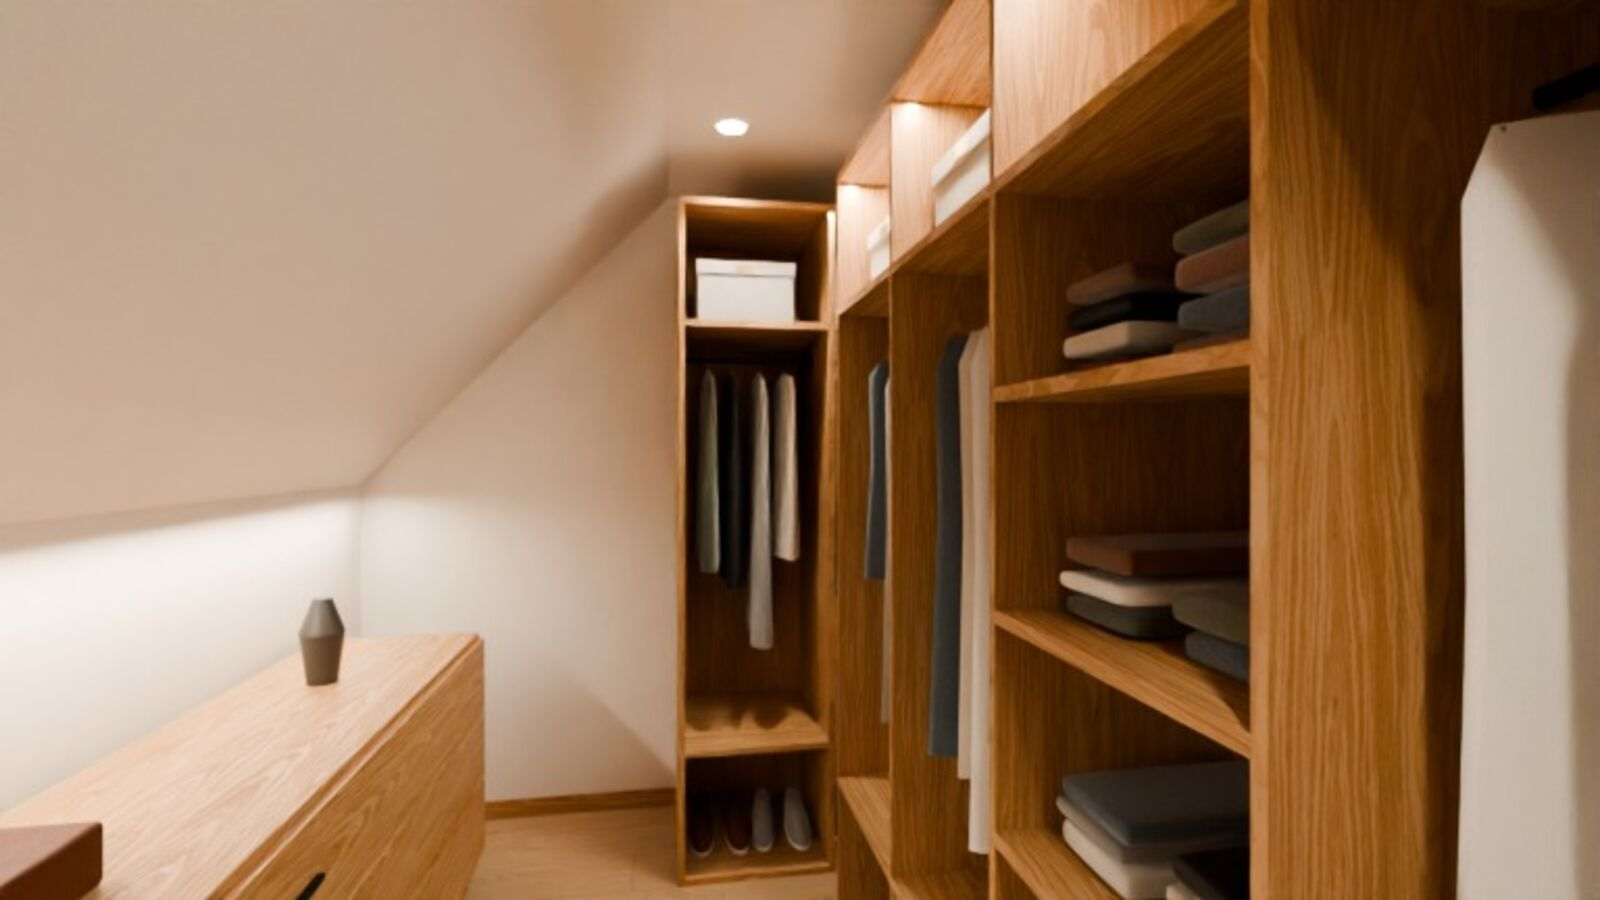
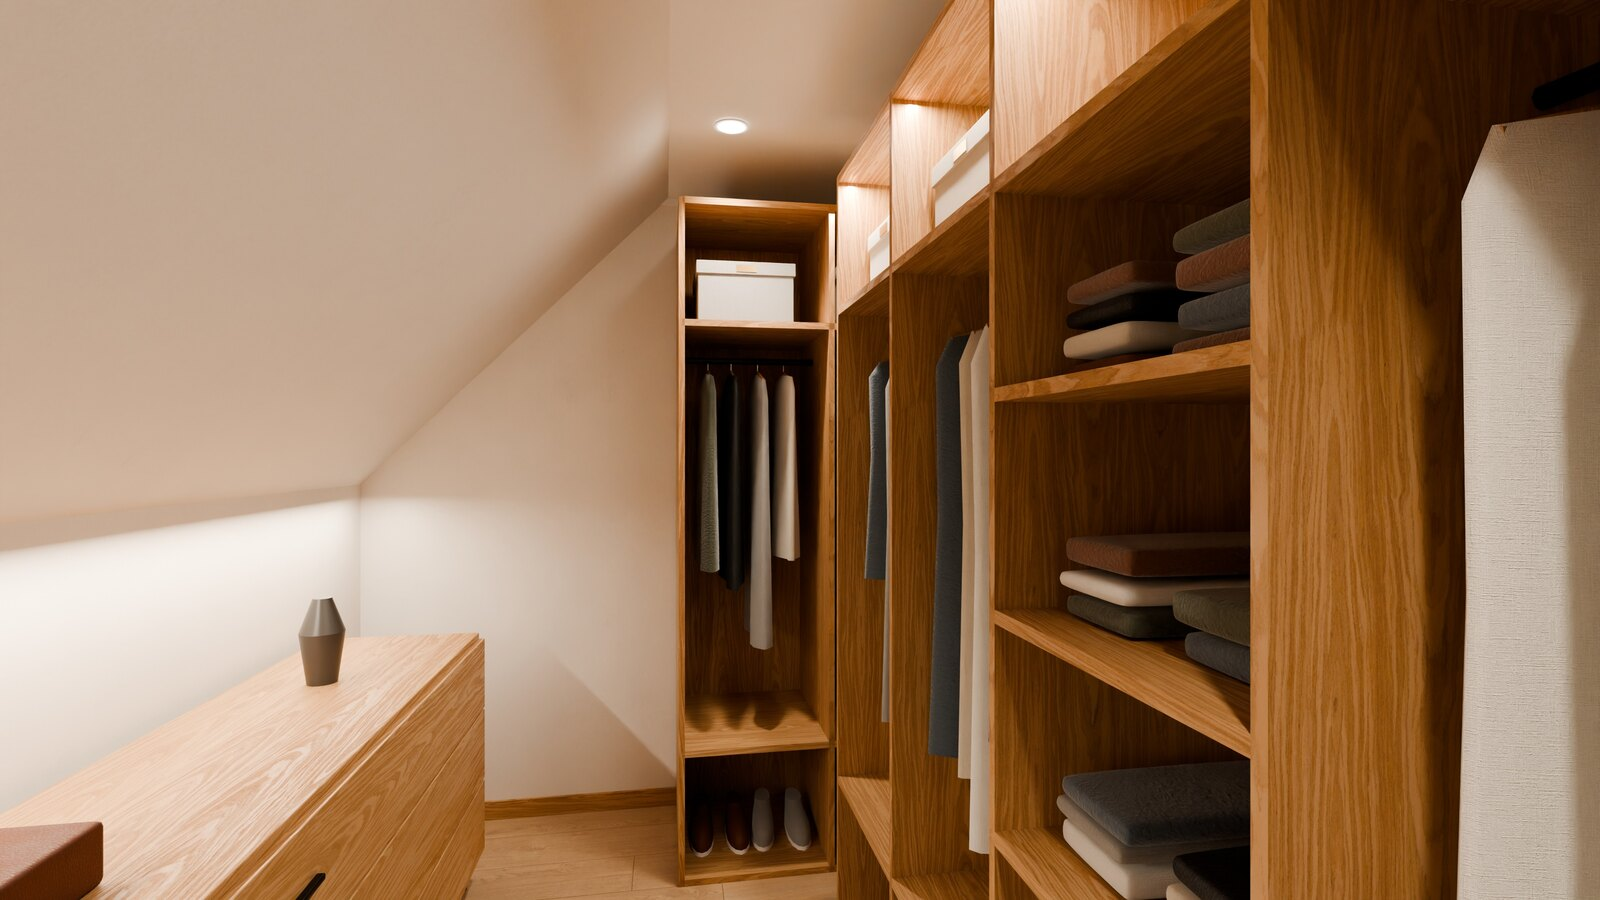
Boligannonse: 13 av 25 bilder i 4K

diff --git a/annonse/index.html b/annonse/index.html
@@ -103,7 +103,7 @@ img { max-width: 100%; }
 
 <div class="ark">
   <header class="topp">
-    <div class="merke"><strong>3D-visualisering av planlagt ombygging</strong><span>11 av 25 bilder er ferdige i 4K, resten er forhåndsvisninger</span></div>
+    <div class="merke"><strong>3D-visualisering av planlagt ombygging</strong><span>13 av 25 bilder er ferdige i 4K, resten er forhåndsvisninger</span></div>
     <h1>Enebolig med golfanneks og oppvarmet garasje</h1>
     <figure class="bilde hero"><button type="button" class="apne" data-i="0" aria-label="Åpne bildet: Fasaden mot nord med overbygd inngang"><img src="img/01-fasade.jpg" width="1600" height="900" alt="Fasaden mot nord med overbygd inngang"></button><figcaption>Fasaden mot nord med overbygd inngang</figcaption></figure>
     <p class="ingress">Et hus over tre plan med stue og kjøkken mot hagen, hovedsoverom med eget bad, tre barnerom og loft. I hagen står et anneks med golfsimulator. Trykk på et bilde for å se det i full oppløsning. På mobil fyller bildet hele skjermen når du snur den, og du blar ved å sveipe.</p>
@@ -113,7 +113,7 @@ img { max-width: 100%; }
 
 <section id="ute" class="del"><div class="delhode"><h2>Huset</h2><p>Brun stående kledning, sort ståltak og eik rundt alle åpninger. Overbygd inngang mot nord, dobbel garasje ved siden av.</p></div><div class="galleri"><figure class="bilde stor"><button type="button" class="apne" data-i="1" aria-label="Åpne bildet: Huset, garasjen og annekset sett fra nord"><img src="img/02-oversikt.jpg" width="1600" height="900" alt="Huset, garasjen og annekset sett fra nord" loading="lazy"></button><figcaption>Huset, garasjen og annekset sett fra nord</figcaption></figure></div></section>
 <section id="forste" class="del"><div class="delhode"><h2>Første etasje</h2><p>Stue, TV-stue, spisestue og kjøkken ligger på rekke mot hagen i sør. Tilbygget med kjøkken og spisestue ligger litt lavere enn stua og har 2,9 meter under taket.</p></div><div class="galleri"><figure class="bilde stor"><button type="button" class="apne" data-i="2" aria-label="Åpne bildet: Stua med karnapp mot hagen"><img src="img/04-stue.jpg" width="1600" height="900" alt="Stua med karnapp mot hagen" loading="lazy"></button><figcaption>Stua med karnapp mot hagen</figcaption></figure><figure class="bilde"><button type="button" class="apne" data-i="3" aria-label="Åpne bildet: Sofagruppa, med TV-stua bak glassveggen til venstre"><img src="img/05-stue-sofa.jpg" width="1600" height="900" alt="Sofagruppa, med TV-stua bak glassveggen til venstre" loading="lazy"></button><figcaption>Sofagruppa, med TV-stua bak glassveggen til venstre</figcaption></figure><figure class="bilde"><button type="button" class="apne" data-i="4" aria-label="Åpne bildet: Spisestue med rundt bord til åtte og skyvedører ut til terrassen"><img src="img/07-spisestue.jpg" width="1600" height="900" alt="Spisestue med rundt bord til åtte og skyvedører ut til terrassen" loading="lazy"></button><figcaption>Spisestue med rundt bord til åtte og skyvedører ut til terrassen</figcaption></figure><figure class="bilde"><button type="button" class="apne" data-i="5" aria-label="Åpne bildet: Kjøkken med mørk brune fronter og øy i Dekton"><img src="img/08-kjokken.jpg" width="1600" height="900" alt="Kjøkken med mørk brune fronter og øy i Dekton" loading="lazy"></button><figcaption>Kjøkken med mørk brune fronter og øy i Dekton</figcaption></figure><figure class="bilde"><button type="button" class="apne" data-i="6" aria-label="Åpne bildet: Kjøkkenøya har usynlig induksjon under steinplata"><img src="img/09-kjokken-oy.jpg" width="1600" height="900" alt="Kjøkkenøya har usynlig induksjon under steinplata" loading="lazy"></button><figcaption>Kjøkkenøya har usynlig induksjon under steinplata</figcaption></figure><figure class="bilde"><button type="button" class="apne" data-i="7" aria-label="Åpne bildet: TV-stua kan stenges av med glassfoldevegg"><img src="img/06-tvstue.jpg" width="1600" height="900" alt="TV-stua kan stenges av med glassfoldevegg" loading="lazy"></button><figcaption>TV-stua kan stenges av med glassfoldevegg</figcaption></figure><figure class="bilde"><button type="button" class="apne" data-i="8" aria-label="Åpne bildet: Entréen sett fra hoveddøra, med stua innerst"><img src="img/03-entre.jpg" width="1600" height="900" alt="Entréen sett fra hoveddøra, med stua innerst" loading="lazy"></button><figcaption>Entréen sett fra hoveddøra, med stua innerst</figcaption></figure></div></section>
-<section id="andre" class="del"><div class="delhode"><h2>Andre etasje</h2><p>Hovedsoverom med eget bad og walk-in, tre barnerom, barnebad, vaskerom og hjemmekontor.</p></div><div class="galleri"><figure class="bilde stor"><button type="button" class="apne" data-i="9" aria-label="Åpne bildet: Hovedsoverommet, med loftstrappa utenfor døra"><img src="img/10-hovedsoverom.jpg" width="1600" height="900" alt="Hovedsoverommet, med loftstrappa utenfor døra" loading="lazy"></button><figcaption>Hovedsoverommet, med loftstrappa utenfor døra</figcaption></figure><figure class="bilde"><button type="button" class="apne" data-i="10" aria-label="Åpne bildet: Bad til hovedsoverommet med dusj under skråtaket"><img src="img/11-masterbad.jpg" width="1600" height="900" alt="Bad til hovedsoverommet med dusj under skråtaket" loading="lazy"></button><figcaption>Bad til hovedsoverommet med dusj under skråtaket</figcaption></figure><figure class="bilde"><button type="button" class="apne" data-i="11" aria-label="Åpne bildet: Walk-in med plassbygd innredning i eik"><img src="img/12-walkin.jpg" width="1600" height="900" alt="Walk-in med plassbygd innredning i eik" loading="lazy"><span class="lav">Lav kvalitet, 4K kommer</span></button><figcaption>Walk-in med plassbygd innredning i eik</figcaption></figure><figure class="bilde"><button type="button" class="apne" data-i="12" aria-label="Åpne bildet: Barnerom med gulvhøyt vindu mot vest"><img src="img/13-barnerom2.jpg" width="1600" height="900" alt="Barnerom med gulvhøyt vindu mot vest" loading="lazy"><span class="lav">Lav kvalitet, 4K kommer</span></button><figcaption>Barnerom med gulvhøyt vindu mot vest</figcaption></figure><figure class="bilde"><button type="button" class="apne" data-i="13" aria-label="Åpne bildet: Barnerom med lenestol ved vinduet"><img src="img/14-barnerom3.jpg" width="1600" height="900" alt="Barnerom med lenestol ved vinduet" loading="lazy"><span class="lav">Lav kvalitet, 4K kommer</span></button><figcaption>Barnerom med lenestol ved vinduet</figcaption></figure><figure class="bilde"><button type="button" class="apne" data-i="14" aria-label="Åpne bildet: Barnerom med takvinduer mot sør"><img src="img/15-barnerom1.jpg" width="1600" height="900" alt="Barnerom med takvinduer mot sør" loading="lazy"><span class="lav">Lav kvalitet, 4K kommer</span></button><figcaption>Barnerom med takvinduer mot sør</figcaption></figure><figure class="bilde"><button type="button" class="apne" data-i="15" aria-label="Åpne bildet: Barnebad med dobbel servant og takvinduer"><img src="img/25-barnebad.jpg" width="1600" height="900" alt="Barnebad med dobbel servant og takvinduer" loading="lazy"><span class="lav">Lav kvalitet, 4K kommer</span></button><figcaption>Barnebad med dobbel servant og takvinduer</figcaption></figure><figure class="bilde"><button type="button" class="apne" data-i="16" aria-label="Åpne bildet: Hjemmekontor i nisjen ved trappa"><img src="img/16-kontor.jpg" width="1600" height="900" alt="Hjemmekontor i nisjen ved trappa" loading="lazy"><span class="lav">Lav kvalitet, 4K kommer</span></button><figcaption>Hjemmekontor i nisjen ved trappa</figcaption></figure></div></section>
+<section id="andre" class="del"><div class="delhode"><h2>Andre etasje</h2><p>Hovedsoverom med eget bad og walk-in, tre barnerom, barnebad, vaskerom og hjemmekontor.</p></div><div class="galleri"><figure class="bilde stor"><button type="button" class="apne" data-i="9" aria-label="Åpne bildet: Hovedsoverommet, med loftstrappa utenfor døra"><img src="img/10-hovedsoverom.jpg" width="1600" height="900" alt="Hovedsoverommet, med loftstrappa utenfor døra" loading="lazy"></button><figcaption>Hovedsoverommet, med loftstrappa utenfor døra</figcaption></figure><figure class="bilde"><button type="button" class="apne" data-i="10" aria-label="Åpne bildet: Bad til hovedsoverommet med dusj under skråtaket"><img src="img/11-masterbad.jpg" width="1600" height="900" alt="Bad til hovedsoverommet med dusj under skråtaket" loading="lazy"></button><figcaption>Bad til hovedsoverommet med dusj under skråtaket</figcaption></figure><figure class="bilde"><button type="button" class="apne" data-i="11" aria-label="Åpne bildet: Walk-in med plassbygd innredning i eik"><img src="img/12-walkin.jpg" width="1600" height="900" alt="Walk-in med plassbygd innredning i eik" loading="lazy"></button><figcaption>Walk-in med plassbygd innredning i eik</figcaption></figure><figure class="bilde"><button type="button" class="apne" data-i="12" aria-label="Åpne bildet: Barnerom med gulvhøyt vindu mot vest"><img src="img/13-barnerom2.jpg" width="1600" height="900" alt="Barnerom med gulvhøyt vindu mot vest" loading="lazy"></button><figcaption>Barnerom med gulvhøyt vindu mot vest</figcaption></figure><figure class="bilde"><button type="button" class="apne" data-i="13" aria-label="Åpne bildet: Barnerom med lenestol ved vinduet"><img src="img/14-barnerom3.jpg" width="1600" height="900" alt="Barnerom med lenestol ved vinduet" loading="lazy"><span class="lav">Lav kvalitet, 4K kommer</span></button><figcaption>Barnerom med lenestol ved vinduet</figcaption></figure><figure class="bilde"><button type="button" class="apne" data-i="14" aria-label="Åpne bildet: Barnerom med takvinduer mot sør"><img src="img/15-barnerom1.jpg" width="1600" height="900" alt="Barnerom med takvinduer mot sør" loading="lazy"><span class="lav">Lav kvalitet, 4K kommer</span></button><figcaption>Barnerom med takvinduer mot sør</figcaption></figure><figure class="bilde"><button type="button" class="apne" data-i="15" aria-label="Åpne bildet: Barnebad med dobbel servant og takvinduer"><img src="img/25-barnebad.jpg" width="1600" height="900" alt="Barnebad med dobbel servant og takvinduer" loading="lazy"><span class="lav">Lav kvalitet, 4K kommer</span></button><figcaption>Barnebad med dobbel servant og takvinduer</figcaption></figure><figure class="bilde"><button type="button" class="apne" data-i="16" aria-label="Åpne bildet: Hjemmekontor i nisjen ved trappa"><img src="img/16-kontor.jpg" width="1600" height="900" alt="Hjemmekontor i nisjen ved trappa" loading="lazy"><span class="lav">Lav kvalitet, 4K kommer</span></button><figcaption>Hjemmekontor i nisjen ved trappa</figcaption></figure></div></section>
 <section id="loft" class="del"><div class="delhode"><h2>Loftet</h2><p>Loftet har gjesterom i vest og et stort hobbyrom i øst, med tre takvinduer mot nord.</p></div><div class="galleri"><figure class="bilde stor"><button type="button" class="apne" data-i="17" aria-label="Åpne bildet: Hobbyrommet på loftet"><img src="img/17-loft.jpg" width="1600" height="900" alt="Hobbyrommet på loftet" loading="lazy"><span class="lav">Lav kvalitet, 4K kommer</span></button><figcaption>Hobbyrommet på loftet</figcaption></figure><figure class="bilde"><button type="button" class="apne" data-i="18" aria-label="Åpne bildet: Gjesterommet under mønet"><img src="img/18-loft-gjest.jpg" width="1600" height="900" alt="Gjesterommet under mønet" loading="lazy"><span class="lav">Lav kvalitet, 4K kommer</span></button><figcaption>Gjesterommet under mønet</figcaption></figure></div></section>
 <section id="hage" class="del"><div class="delhode"><h2>Terrasse og hage</h2><p>Terrassen ligger utenfor spisestua og fortsetter rundt hjørnet til kjøkkendøra. Hagen er skjermet av hekk.</p></div><div class="galleri"><figure class="bilde stor"><button type="button" class="apne" data-i="19" aria-label="Åpne bildet: Terrassen sett fra plenen"><img src="img/19-terrasse.jpg" width="1600" height="900" alt="Terrassen sett fra plenen" loading="lazy"><span class="lav">Lav kvalitet, 4K kommer</span></button><figcaption>Terrassen sett fra plenen</figcaption></figure><figure class="bilde"><button type="button" class="apne" data-i="20" aria-label="Åpne bildet: Sofagruppe på terrassen, annekset innerst i hagen"><img src="img/20-terrasse-ute.jpg" width="1600" height="900" alt="Sofagruppe på terrassen, annekset innerst i hagen" loading="lazy"><span class="lav">Lav kvalitet, 4K kommer</span></button><figcaption>Sofagruppe på terrassen, annekset innerst i hagen</figcaption></figure><figure class="bilde"><button type="button" class="apne" data-i="21" aria-label="Åpne bildet: Hellegang over plenen til annekset"><img src="img/21-hage-anneks.jpg" width="1600" height="900" alt="Hellegang over plenen til annekset" loading="lazy"><span class="lav">Lav kvalitet, 4K kommer</span></button><figcaption>Hellegang over plenen til annekset</figcaption></figure></div></section>
 <section id="anneks" class="del"><div class="delhode"><h2>Anneks og garasje</h2><p>Annekset på 40 kvadratmeter har golfsimulator med lerret fra vegg til vegg og en liten lounge. Garasjen er dobbel og oppvarmet.</p></div><div class="galleri"><figure class="bilde stor"><button type="button" class="apne" data-i="22" aria-label="Åpne bildet: Golfsimulatoren i annekset"><img src="img/22-golf.jpg" width="1600" height="900" alt="Golfsimulatoren i annekset" loading="lazy"><span class="lav">Lav kvalitet, 4K kommer</span></button><figcaption>Golfsimulatoren i annekset</figcaption></figure><figure class="bilde"><button type="button" class="apne" data-i="23" aria-label="Åpne bildet: Loungen i annekset, under himling av eikespiler"><img src="img/23-golf-lounge.jpg" width="1600" height="900" alt="Loungen i annekset, under himling av eikespiler" loading="lazy"><span class="lav">Lav kvalitet, 4K kommer</span></button><figcaption>Loungen i annekset, under himling av eikespiler</figcaption></figure><figure class="bilde"><button type="button" class="apne" data-i="24" aria-label="Åpne bildet: Oppvarmet garasje med arbeidsbenk og skapvegg"><img src="img/24-garasje.jpg" width="1600" height="900" alt="Oppvarmet garasje med arbeidsbenk og skapvegg" loading="lazy"><span class="lav">Lav kvalitet, 4K kommer</span></button><figcaption>Oppvarmet garasje med arbeidsbenk og skapvegg</figcaption></figure></div></section>
@@ -134,7 +134,7 @@ img { max-width: 100%; }
 
 <script>
 (function () {
-  var data = [["01-fasade","Fasaden mot nord med overbygd inngang",1],["02-oversikt","Huset, garasjen og annekset sett fra nord",1],["04-stue","Stua med karnapp mot hagen",1],["05-stue-sofa","Sofagruppa, med TV-stua bak glassveggen til venstre",1],["07-spisestue","Spisestue med rundt bord til åtte og skyvedører ut til terrassen",1],["08-kjokken","Kjøkken med mørk brune fronter og øy i Dekton",1],["09-kjokken-oy","Kjøkkenøya har usynlig induksjon under steinplata",1],["06-tvstue","TV-stua kan stenges av med glassfoldevegg",1],["03-entre","Entréen sett fra hoveddøra, med stua innerst",1],["10-hovedsoverom","Hovedsoverommet, med loftstrappa utenfor døra",1],["11-masterbad","Bad til hovedsoverommet med dusj under skråtaket",1],["12-walkin","Walk-in med plassbygd innredning i eik",0],["13-barnerom2","Barnerom med gulvhøyt vindu mot vest",0],["14-barnerom3","Barnerom med lenestol ved vinduet",0],["15-barnerom1","Barnerom med takvinduer mot sør",0],["25-barnebad","Barnebad med dobbel servant og takvinduer",0],["16-kontor","Hjemmekontor i nisjen ved trappa",0],["17-loft","Hobbyrommet på loftet",0],["18-loft-gjest","Gjesterommet under mønet",0],["19-terrasse","Terrassen sett fra plenen",0],["20-terrasse-ute","Sofagruppe på terrassen, annekset innerst i hagen",0],["21-hage-anneks","Hellegang over plenen til annekset",0],["22-golf","Golfsimulatoren i annekset",0],["23-golf-lounge","Loungen i annekset, under himling av eikespiler",0],["24-garasje","Oppvarmet garasje med arbeidsbenk og skapvegg",0]];
+  var data = [["01-fasade","Fasaden mot nord med overbygd inngang",1],["02-oversikt","Huset, garasjen og annekset sett fra nord",1],["04-stue","Stua med karnapp mot hagen",1],["05-stue-sofa","Sofagruppa, med TV-stua bak glassveggen til venstre",1],["07-spisestue","Spisestue med rundt bord til åtte og skyvedører ut til terrassen",1],["08-kjokken","Kjøkken med mørk brune fronter og øy i Dekton",1],["09-kjokken-oy","Kjøkkenøya har usynlig induksjon under steinplata",1],["06-tvstue","TV-stua kan stenges av med glassfoldevegg",1],["03-entre","Entréen sett fra hoveddøra, med stua innerst",1],["10-hovedsoverom","Hovedsoverommet, med loftstrappa utenfor døra",1],["11-masterbad","Bad til hovedsoverommet med dusj under skråtaket",1],["12-walkin","Walk-in med plassbygd innredning i eik",1],["13-barnerom2","Barnerom med gulvhøyt vindu mot vest",1],["14-barnerom3","Barnerom med lenestol ved vinduet",0],["15-barnerom1","Barnerom med takvinduer mot sør",0],["25-barnebad","Barnebad med dobbel servant og takvinduer",0],["16-kontor","Hjemmekontor i nisjen ved trappa",0],["17-loft","Hobbyrommet på loftet",0],["18-loft-gjest","Gjesterommet under mønet",0],["19-terrasse","Terrassen sett fra plenen",0],["20-terrasse-ute","Sofagruppe på terrassen, annekset innerst i hagen",0],["21-hage-anneks","Hellegang over plenen til annekset",0],["22-golf","Golfsimulatoren i annekset",0],["23-golf-lounge","Loungen i annekset, under himling av eikespiler",0],["24-garasje","Oppvarmet garasje med arbeidsbenk og skapvegg",0]];
   var lys = document.getElementById("lys"), rom = document.getElementById("lys-rom"), bilde = document.getElementById("lys-bilde");
   var tekst = document.getElementById("lys-tekst"), teller = document.getElementById("lys-teller"), zoom = document.getElementById("lys-zoom");
   var i = 0, sist = null;
